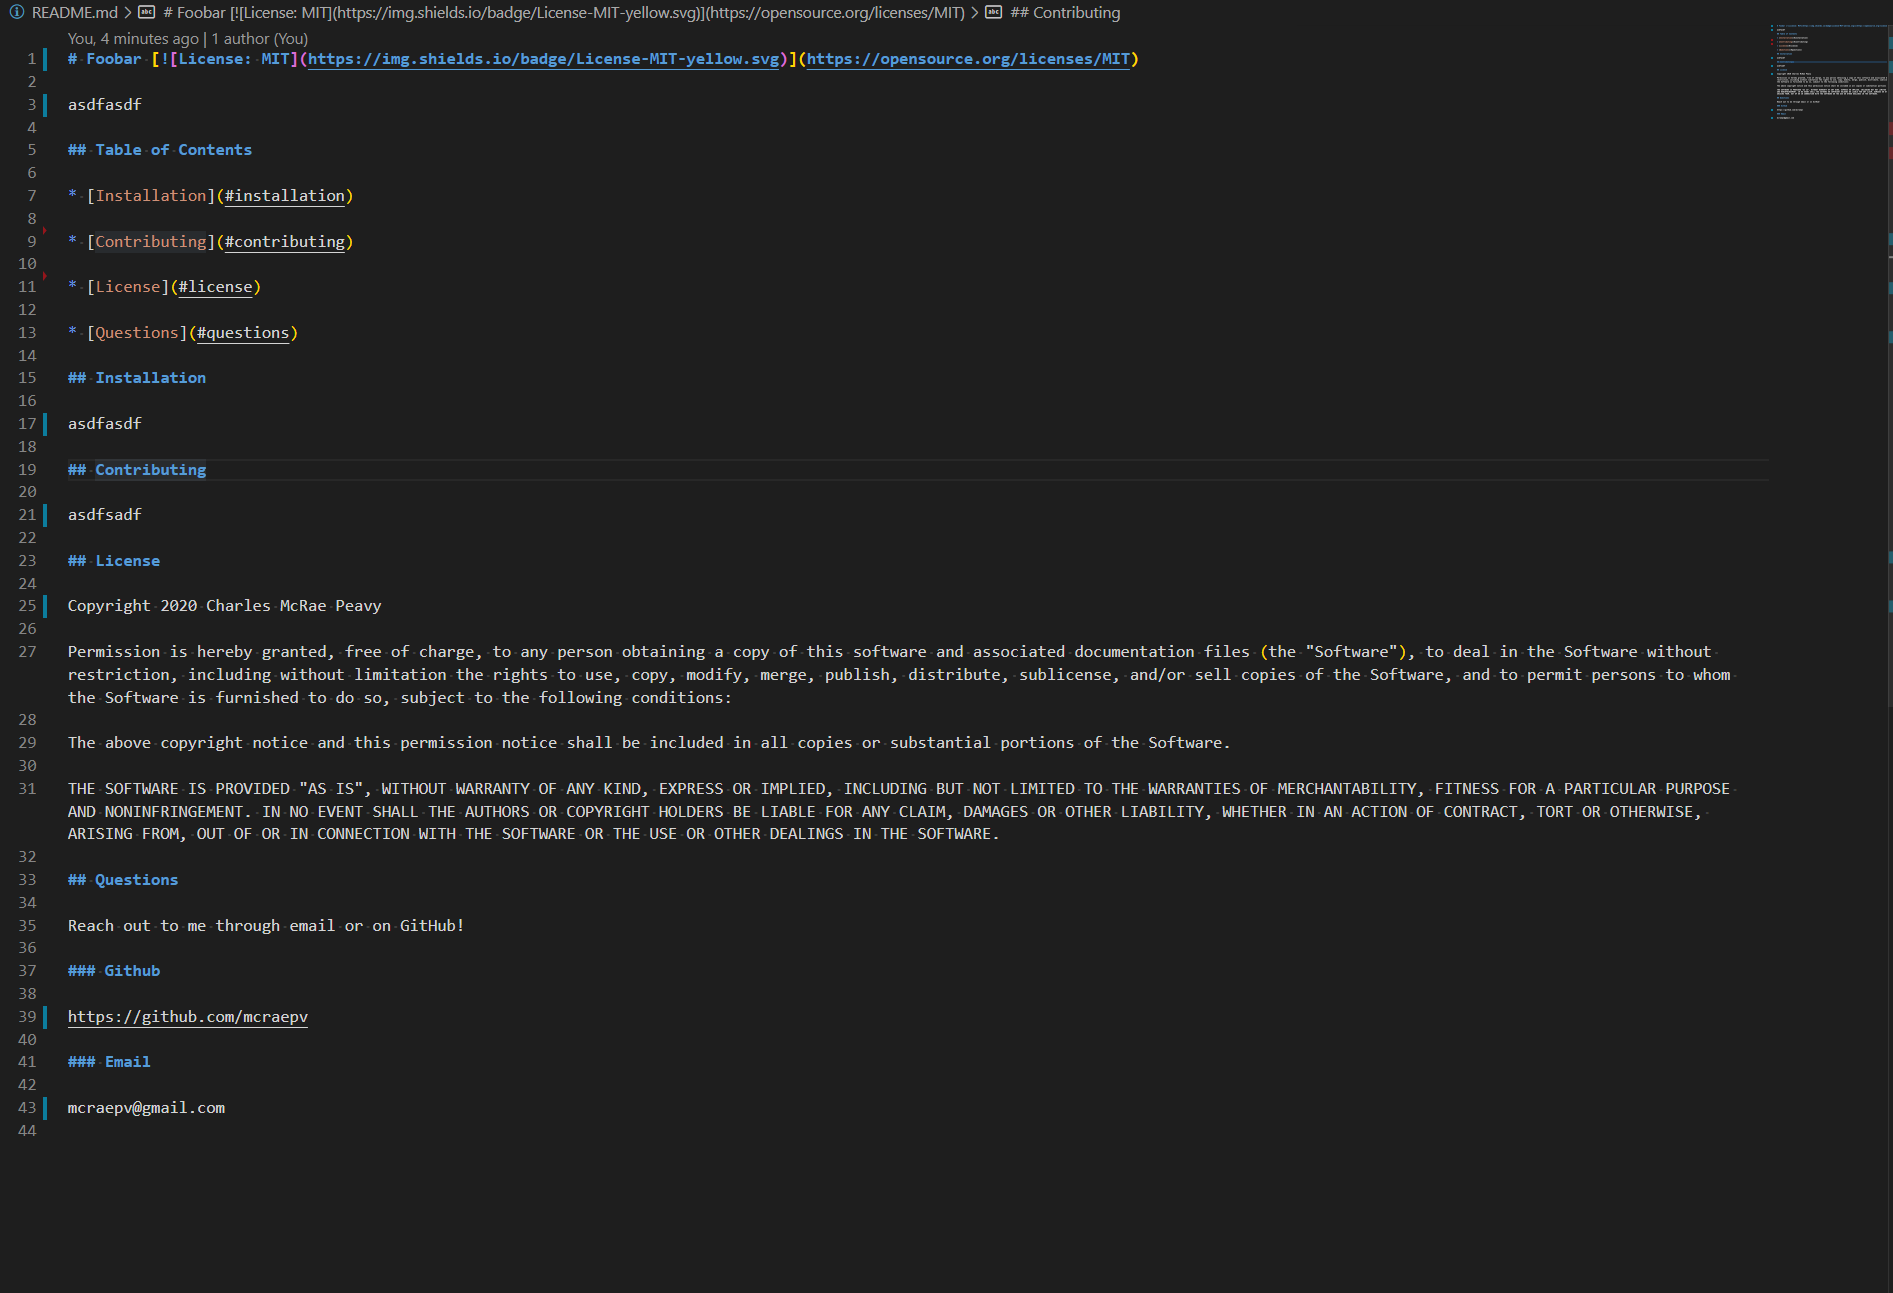
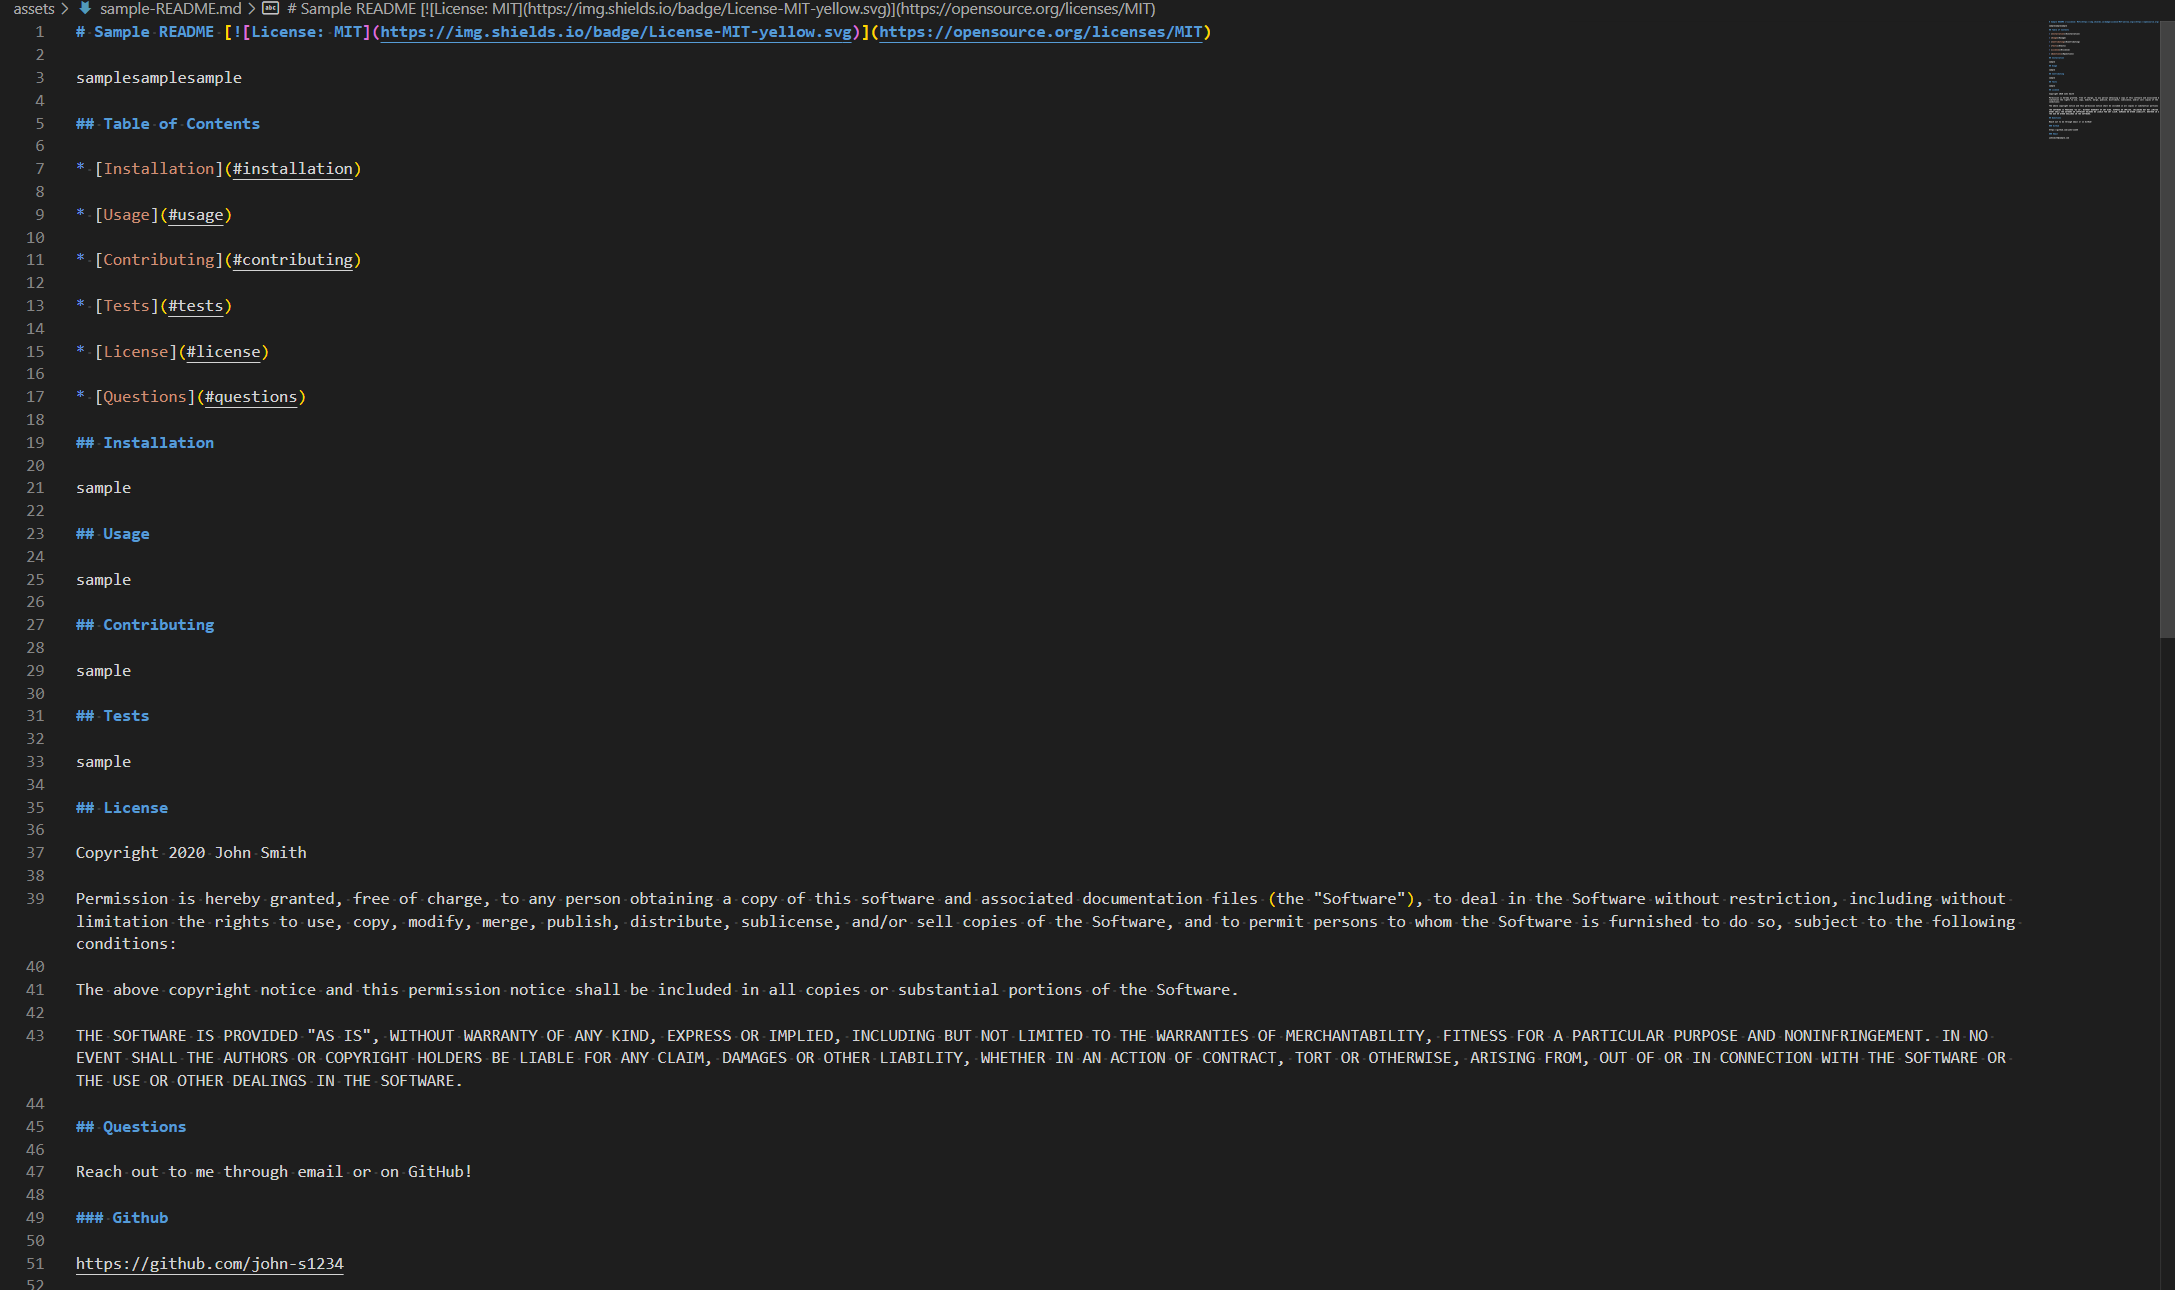
updates sample readme to demonstrate all available sections

diff --git a/assets/sample-README.md b/assets/sample-README.md
@@ -1,12 +1,16 @@
-# Foobar [![License: MIT](https://img.shields.io/badge/License-MIT-yellow.svg)](https://opensource.org/licenses/MIT)
+# Sample README [![License: MIT](https://img.shields.io/badge/License-MIT-yellow.svg)](https://opensource.org/licenses/MIT)
 
-asdfasdf
+samplesamplesample
 
 ## Table of Contents
 
 * [Installation](#installation)
 
+* [Usage](#usage)
+
 * [Contributing](#contributing)
+
+* [Tests](#tests)
 
 * [License](#license)
 
@@ -14,15 +18,23 @@ asdfasdf
 
 ## Installation
 
-asdfasdf
+sample
+
+## Usage
+
+sample
 
 ## Contributing
 
-asdfsadf
+sample
+
+## Tests
+
+sample
 
 ## License
 
-Copyright 2020 Charles McRae Peavy
+Copyright 2020 John Smith
 
 Permission is hereby granted, free of charge, to any person obtaining a copy of this software and associated documentation files (the "Software"), to deal in the Software without restriction, including without limitation the rights to use, copy, modify, merge, publish, distribute, sublicense, and/or sell copies of the Software, and to permit persons to whom the Software is furnished to do so, subject to the following conditions:
 
@@ -36,8 +48,8 @@ Reach out to me through email or on GitHub!
 
 ### Github
 
-https://github.com/mcraepv
+https://github.com/john-s1234
 
 ### Email
 
-mcraepv@gmail.com
+johnsmith@sample.com
